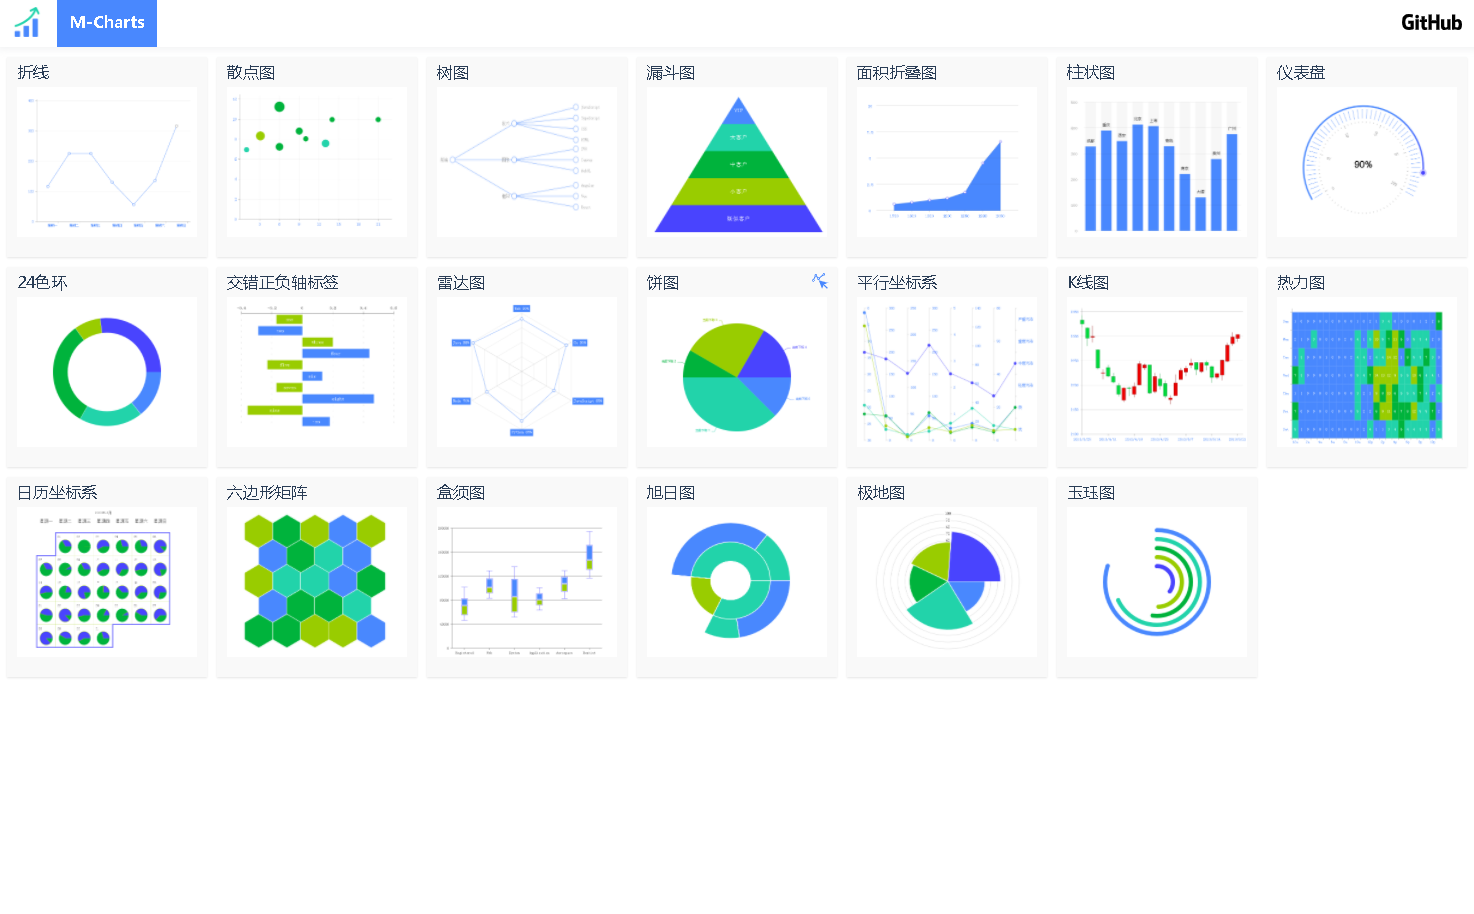
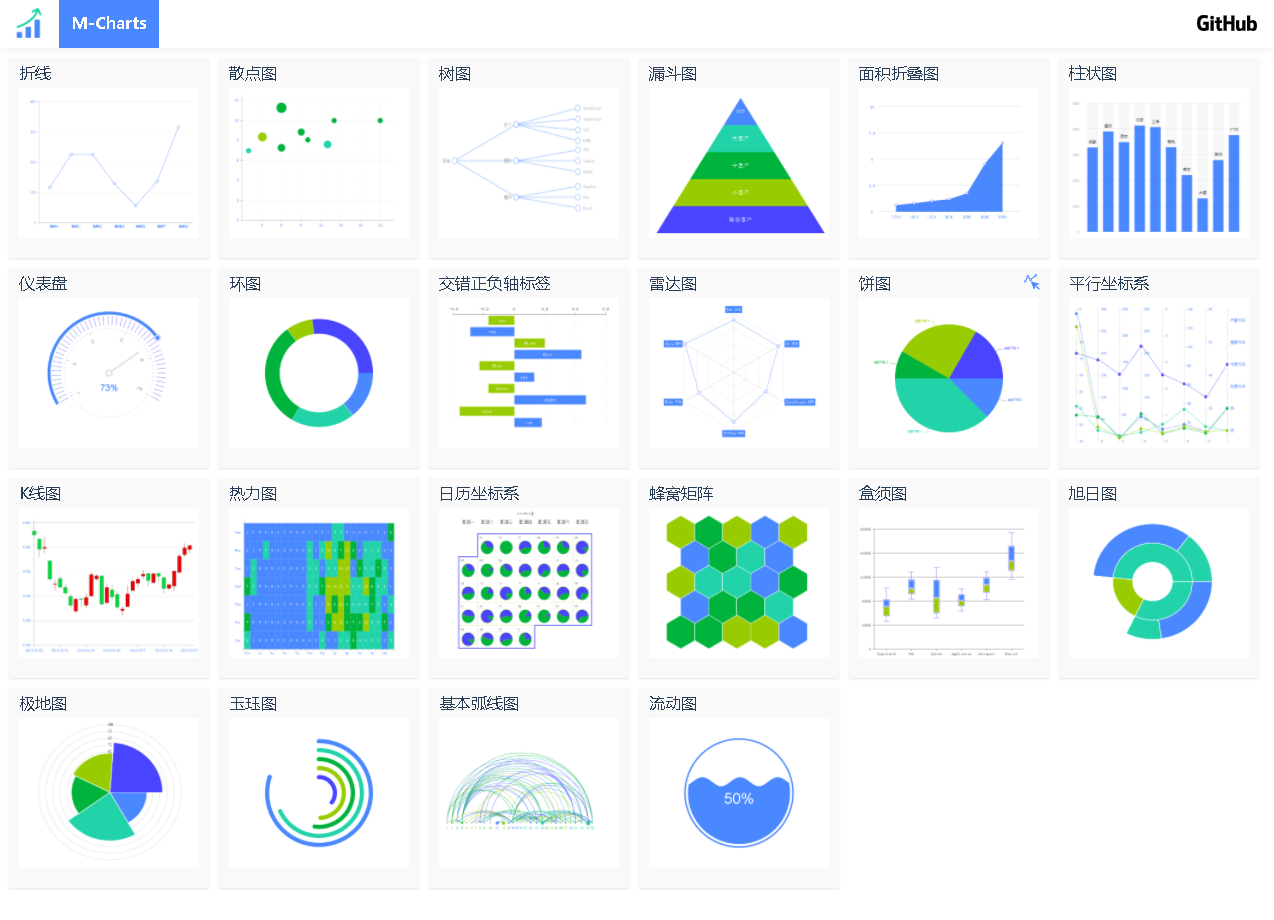
update 流动图

diff --git a/src/charts/shape/liquid/liquid.tsx b/src/charts/shape/liquid/liquid.tsx
@@ -1,0 +1,132 @@
+import * as React from 'react';
+import CanvasComponent from '../../comps/canvas';
+import { CONFIG} from './../../config/color_def';
+import "./liquid.scss";
+
+class LiquidComponent extends React.Component {
+    canvas:any;
+    ctx:any;
+    clientRect:any;
+    config: any;
+    data:any[];
+    OFFSET_X_START:number;
+
+    constructor(props:any) {
+        super(props);
+    }
+
+    componentDidMount() {
+        this.initData();
+        this.initCanvas();
+        this.initDraw();
+    }
+
+    initData() {
+        this.OFFSET_X_START = 0;
+        this.config = {
+            RADIUS: 180, // 圆饼半径
+            RADIUS_INNER:170,
+            COORDINATE_X:300, // x坐标
+            COORDINATE_Y:250, // y坐标
+            WIDTH: 500,
+        }
+
+    }
+
+    initCanvas() {
+        this.canvas = document.getElementById('canvas');
+        if(!this.canvas) return;
+        this.ctx = this.canvas.getContext('2d');
+        this.clientRect = this.canvas.getBoundingClientRect();
+    }
+
+    initDraw() {
+        this.ctx.font='50px Arial';
+        this.ctx.textAlign = 'center';
+
+        this.drawArc();
+        this.drawWave();
+        this.animation();
+    }
+
+    drawArc() {
+        this.ctx.strokeStyle = CONFIG.DEF_COLS[0];
+        this.ctx.lineWidth = 5;
+        this.ctx.beginPath();
+        this.ctx.fillStyle = '#ffffff';
+        this.ctx.arc( this.config.COORDINATE_X,  this.config.COORDINATE_Y, this.config.RADIUS , 0, Math.PI * 2, false);
+        this.ctx.fill();
+        this.ctx.stroke();
+        this.ctx.beginPath();
+        this.ctx.fillStyle = "#ffffff";
+        this.ctx.arc( this.config.COORDINATE_X,  this.config.COORDINATE_Y, this.config.RADIUS_INNER , 0, Math.PI * 2, false);
+        this.ctx.fill();
+        this.ctx.clip();
+    }
+
+    drawWave() {
+        let _s_x = this.config.COORDINATE_X - this.config.RADIUS;
+        let _w = this.config.RADIUS * 2;
+        let _h = this.config.COORDINATE_Y  + this.config.RADIUS;
+        let _per_width = 10 / _w;
+        let _wave_width = 0.05;
+        let _wave_height = 15;
+        let _offset_x = this.OFFSET_X_START;
+        this.clearArc();
+        let _startPoit = {
+            x:0,
+            y:0
+        }
+        this.ctx.beginPath();
+        for (let x = _s_x ; x <  _s_x  + _w; x += _per_width) {
+          const y = _wave_height * Math.sin((_wave_width + x ) * 0.05 + _offset_x );
+          if( x === _s_x) {
+            _startPoit = {
+                x:x,
+                y: (_h / 2) + y
+            }
+          }
+          this.ctx.lineTo(x, (_h / 2) + y);
+        }
+        this.ctx.lineTo(_w + _s_x, _h);
+        this.ctx.lineTo(_s_x, _h);
+        this.ctx.lineTo(_startPoit.x, _startPoit.y);        
+        this.ctx.fillStyle = CONFIG.DEF_COLS[0];
+        this.ctx.fill();
+        this.ctx.stroke();
+        this.drawText();
+    }
+
+    drawText() {
+        this.ctx.beginPath();
+        this.ctx.fillStyle = '#ffffff';
+        this.ctx.fillText(`50%`, this.config.COORDINATE_X , this.config.COORDINATE_Y + this.config.RADIUS / 5);
+        this.ctx.fill();
+        this.ctx.stroke();
+    }
+
+    clearArc() {
+        this.ctx.beginPath();
+        this.ctx.arc(this.config.COORDINATE_X,  this.config.COORDINATE_Y, this.config.RADIUS_INNER , 0, Math.PI * 2, false);
+        this.ctx.save();
+        this.ctx.globalCompositeOperation = 'destination-out';
+        this.ctx.fillStyle = 'black';
+        this.ctx.fill();
+        this.ctx.restore();
+    }
+
+    animation() {
+        this.OFFSET_X_START += 0.05;
+        if(this.OFFSET_X_START > this.config.RADIUS) {
+            this.OFFSET_X_START -= this.config.RADIUS
+        }
+        console.log(this.OFFSET_X_START);
+        this.drawWave();
+        requestAnimationFrame(this.animation.bind(this))
+    }
+
+    render() {
+        return <><CanvasComponent/></>
+    }
+}
+export default LiquidComponent;

diff --git a/src/pages/charts-list/charts-list.tsx b/src/pages/charts-list/charts-list.tsx
@@ -25,6 +25,7 @@ let imgBoxPlot = require('./../../assets/imgs/shape/boxplot.png');
 let imgPolarArea = require('./../../assets/imgs/shape/polar-area.png');
 let imgRedialBar = require('./../../assets/imgs/shape/radialBar.png');
 let imgArcDiagram = require('./../../assets/imgs/shape/arcDiagram.png');
+let imgLiquid = require('./../../assets/imgs/shape/liquid.png');
 interface Charts {
     name: string, // 组件名称
     type: string, // 组件类型
@@ -139,6 +140,11 @@ class ChartsList extends React.Component<{}, object>  {
             name:'基本弧线图',
             type:'arcDiagram',
             thumbnail: imgArcDiagram
+        },
+        {
+            name:"流动图",
+            type:'liquid',
+            thumbnail: imgLiquid
         }
         
     ];

diff --git a/src/pages/charts-view/charts-view.tsx b/src/pages/charts-view/charts-view.tsx
@@ -26,7 +26,8 @@ import {
     BoxPlotComponent,
     PolarAreaComponent,
     RadialBarComponent,
-    ArcDiagramComponent
+    ArcDiagramComponent,
+    LiquidComponent
 } from './../../charts/shape/index';
 
 import {
@@ -112,6 +113,9 @@ class ChartsView extends React.Component<ChartsProps, MState> {
                 break;
             case 'arcDiagram':
                 chartComp = <ArcDiagramComponent/>
+                break;
+            case 'liquid':
+                chartComp = <LiquidComponent/>
                 break;
             default:
                 chartComp = <NoMatchChart/>

diff --git a/src/charts/shape/index.js b/src/charts/shape/index.js
@@ -19,6 +19,7 @@ import BoxPlotComponent from './boxplot/boxplot';
 import PolarAreaComponent from './polar-area/polar-area';
 import RadialBarComponent from './radial-bar/radial-bar';
 import ArcDiagramComponent from './arc-diagram/arc-diagram';
+import LiquidComponent from './liquid/liquid';
 
 export { 
     PieComponent, // 饼图
@@ -41,5 +42,6 @@ export {
     BoxPlotComponent, // 盒箱图
     PolarAreaComponent, // 极地图
     RadialBarComponent, // 玉珏图
-    ArcDiagramComponent // 基础弧线图
+    ArcDiagramComponent, // 基础弧线图
+    LiquidComponent // 水波图
 }

diff --git a/README.md b/README.md
@@ -47,6 +47,8 @@ npm run dev
 18. 盒须图
 19. 极地图
 19. 玉珏图
+20. 基本弧线图
+21. 流动图
 ## TODO List 
 
 - 实现基础Chart Demo展示(Doing) 
